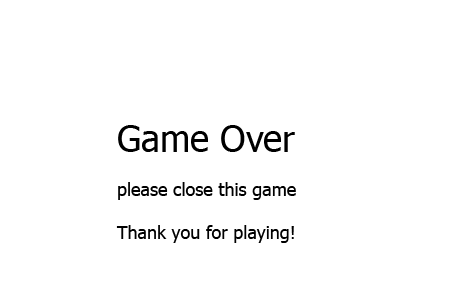
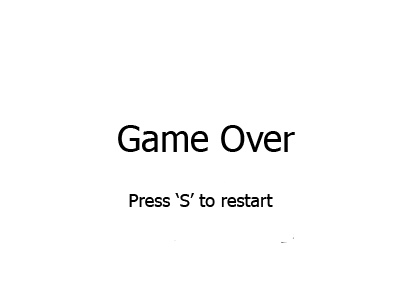
add restart fucntion

Changed region(s): [[0.2388, 0.42, 0.7463, 0.51], [0.2388, 0.6, 0.6866, 0.69], [0.2687, 0.75, 0.6567, 0.81]]

diff --git a/models.py b/models.py
@@ -9,7 +9,7 @@ LANE_Y = 750
 BLOCK_SCALE = 1
 PERFECT_Y = 33 #distance from player line when press for perfect score
 UPPER_PRESS_AREA = 160 +3 #upper area in image is at 160 but add additional for 10 to lower the difficulty
-LOWER_PRESS_AREA = 100+5 #+5 จะได้ใช้ประโยชน์จากขอบมากขึ้น
+LOWER_PRESS_AREA = 100 #+5 จะได้ใช้ประโยชน์จากขอบมากขึ้น
 INSTRUCTION_STATE = 0
 GAME_RUNNING_STATE = 1
 GAME_OVER_STATE = 2
@@ -18,9 +18,8 @@ class Block(arcade.Sprite):
     def setup(self, x, y):
         self.center_x = x
         self.center_y = y
- 
+
     def update(self, delta):
-        #if self.current_state == GAME_RUNNING_STATE:
             self.center_y -= 5
 
 
@@ -43,19 +42,18 @@ class World:
         self.instruction_sprite = arcade.Sprite('images/instruction.png')#show instruction when start game
         self.instruction_sprite.set_position(325,450)
         self.gameover_sprite = arcade.Sprite('images/gameover.png')#show game over image when
-        self.gameover_sprite.set_position(325,450)
+        self.gameover_sprite.set_position(295,450)
 
     '''Button'''
     def on_key_press(self, key, key_modifiers):
-        if (key == arcade.key.S and self.current_state == INSTRUCTION_STATE):
-            self.current_state = GAME_RUNNING_STATE
-        if (key == arcade.key.A and self.current_state == GAME_RUNNING_STATE):
-            if(round(self.block_list1[0].center_y - PLAYER_LINE_Y)<= PERFECT_Y):
+
+        if (self.current_state == GAME_RUNNING_STATE and key == arcade.key.A):
+            if(self.block_list1 and round(self.block_list1[0].center_y - PLAYER_LINE_Y)<= PERFECT_Y):
                 self.gain_score = 200 + round(self.multiplier*self.combo) #gain perfect score when press almost pass the player line
                 self.score += self.gain_score
                 self.combo += 1
                 del self.block_list1[0]
-            elif(self.block_list1[0].center_y <= UPPER_PRESS_AREA and self.block_list2[0].center_y >= LOWER_PRESS_AREA):
+            elif(self.block_list1 and self.block_list1[0].center_y <= UPPER_PRESS_AREA and self.block_list2[0].center_y >= LOWER_PRESS_AREA):
                 self.gain_score = round(100 + ((self.multiplier*self.combo) *0.2))
                 self.score += self.gain_score
                 self.combo += 1
@@ -65,13 +63,13 @@ class World:
                 self.score += self.gain_score
                 self.combo = 0 #reset combo if press outside PRESS_AREA
         
-        if (key == arcade.key.S and self.current_state == GAME_RUNNING_STATE):
-            if(round(self.block_list2[0].center_y - PLAYER_LINE_Y)<= PERFECT_Y):
+        if (self.current_state == GAME_RUNNING_STATE and key == arcade.key.S):
+            if(self.block_list2 and round(self.block_list2[0].center_y - PLAYER_LINE_Y)<= PERFECT_Y):
                 self.gain_score = 200 + round(self.multiplier*self.combo)
                 self.score += self.gain_score
                 self.combo += 1
                 del self.block_list2[0]
-            elif(self.block_list2[0].center_y <= UPPER_PRESS_AREA and self.block_list2[0].center_y >= LOWER_PRESS_AREA):
+            elif(self.block_list2 and self.block_list2[0].center_y <= UPPER_PRESS_AREA and self.block_list2[0].center_y >= LOWER_PRESS_AREA):
                 self.gain_score = round(100 + ((self.multiplier*self.combo) *0.2))
                 self.score += self.gain_score
                 self.combo += 1
@@ -81,13 +79,13 @@ class World:
                 self.score += self.gain_score
                 self.combo = 0
 
-        if (key == arcade.key.D and self.current_state == GAME_RUNNING_STATE):
-            if(round(self.block_list3[0].center_y - PLAYER_LINE_Y)<= PERFECT_Y):
+        if (self.current_state == GAME_RUNNING_STATE and key == arcade.key.D):
+            if(self.block_list3 and round(self.block_list3[0].center_y - PLAYER_LINE_Y)<= PERFECT_Y):
                 self.gain_score = 200 + round(self.multiplier*self.combo)
                 self.score += self.gain_score
                 self.combo += 1
                 del self.block_list3[0]
-            elif(self.block_list3[0].center_y <= UPPER_PRESS_AREA and self.block_list2[0].center_y >= LOWER_PRESS_AREA):
+            elif(self.block_list3 and self.block_list3[0].center_y <= UPPER_PRESS_AREA and self.block_list2[0].center_y >= LOWER_PRESS_AREA):
                 self.gain_score = round(100 + ((self.multiplier*self.combo) *0.2))
                 self.score += self.gain_score
                 self.combo += 1
@@ -96,6 +94,18 @@ class World:
                 self.gain_score = -50 
                 self.score += self.gain_score
                 self.combo = 0
+        
+        if (self.current_state == INSTRUCTION_STATE and key == arcade.key.S):
+            self.current_state = GAME_RUNNING_STATE
+
+        if (self.current_state == GAME_OVER_STATE and key == arcade.key.S):
+            self.combo = 0
+            self.gain_score = 0
+            self.score = 0
+            self.block_list1 = []
+            self.block_list2 = []
+            self.block_list3 = []
+            self.current_state = INSTRUCTION_STATE
         
         output_gain = f"+ {self.gain_score}" #ทำป้ายคะแนน
         self.score_gain_text = arcade.create_text(output_gain, arcade.color.BLACK, 14)
@@ -133,20 +143,20 @@ class World:
                 self.block_list3.append(self.block)
                 self.Lane3_Waittime = 20
         
-        '''Check if block past player line'''
+        '''Check if block passed player line'''
         for block in self.block_list1:
-            if self.current_state == GAME_RUNNING_STATE:
-                block.update(delta)
+            #if self.current_state == GAME_RUNNING_STATE:
+            block.update(delta)
             if(block.center_y<115):
                 self.current_state = GAME_OVER_STATE
         for block in self.block_list2:
-            if self.current_state == GAME_RUNNING_STATE:
-                block.update(delta)
+            #if self.current_state == GAME_RUNNING_STATE:
+            block.update(delta)
             if(block.center_y<115):
                 self.current_state = GAME_OVER_STATE
         for block in self.block_list3:
-            if self.current_state == GAME_RUNNING_STATE:
-                block.update(delta)
+            #if self.current_state == GAME_RUNNING_STATE:
+            block.update(delta)
             if(block.center_y<115):
                 self.current_state = GAME_OVER_STATE
         self.Lane1_Waittime -=1 #ทุกครั้งที่updateจะลบLane_Waittime1-3 ไป1เฟรม

diff --git a/Closecall.py b/Closecall.py
@@ -40,7 +40,7 @@ class ClosecallWindow(arcade.Window):
         arcade.start_render()
         '''draw bg''' #draw background before scoreboard otherwise you cannot see the scoreboard(will bring bg to the front of scoreboard)
         arcade.draw_texture_rectangle(SCREEN_WIDTH // 2, SCREEN_HEIGHT // 2,
-                                      SCREEN_WIDTH, SCREEN_HEIGHT, self.background) #ทำไมต้อง // 2 มันคืออะไร??
+                                      SCREEN_WIDTH, SCREEN_HEIGHT, self.background)
 
         '''Score Board'''
         output = f"Score: {self.world.score}" #ทำป้ายคะแนน
@@ -66,12 +66,6 @@ class ClosecallWindow(arcade.Window):
             else:
                 arcade.render_text(self.combo_text, 250, 65)
 
-        '''draw instruction page'''
-        if self.world.current_state == INSTRUCTION_STATE:
-            self.world.instruction_sprite.draw()
-        if self.world.current_state == GAME_OVER_STATE:
-            self.world.gameover_sprite.draw()
-
         ''' draw block in each lane'''
         for block in self.world.block_list1:
             block.draw()
@@ -79,6 +73,15 @@ class ClosecallWindow(arcade.Window):
             block.draw()
         for block in self.world.block_list3:
             block.draw()
+
+        '''draw instruction page'''
+        if self.world.current_state == INSTRUCTION_STATE:
+            self.world.instruction_sprite.draw()
+        if self.world.current_state == GAME_OVER_STATE:
+            self.world.gameover_sprite.draw()
+            final_score = f"You've score {self.world.score} pts"
+            self.total_score_text = arcade.create_text(final_score, arcade.color.BLACK, 15)
+            arcade.render_text(self.total_score_text, 215, 300)
         
     def update(self, delta):
         self.world.update(delta)
